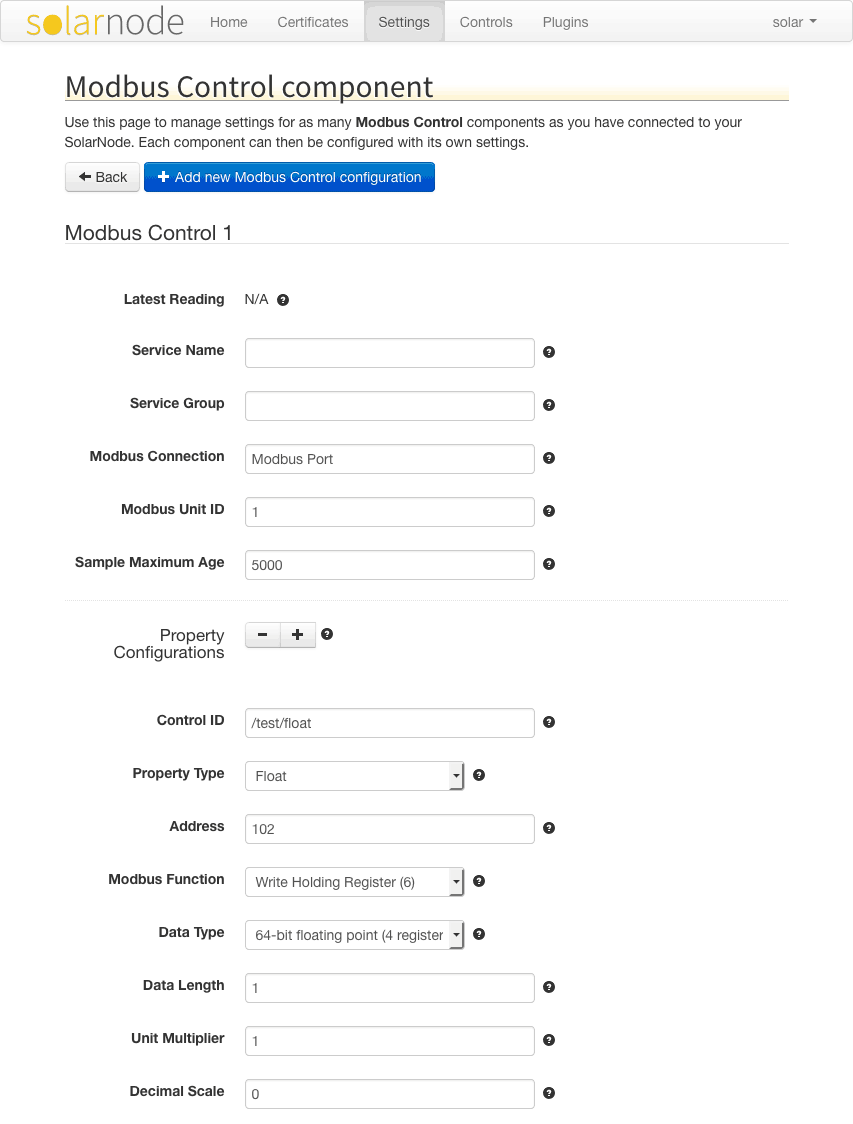
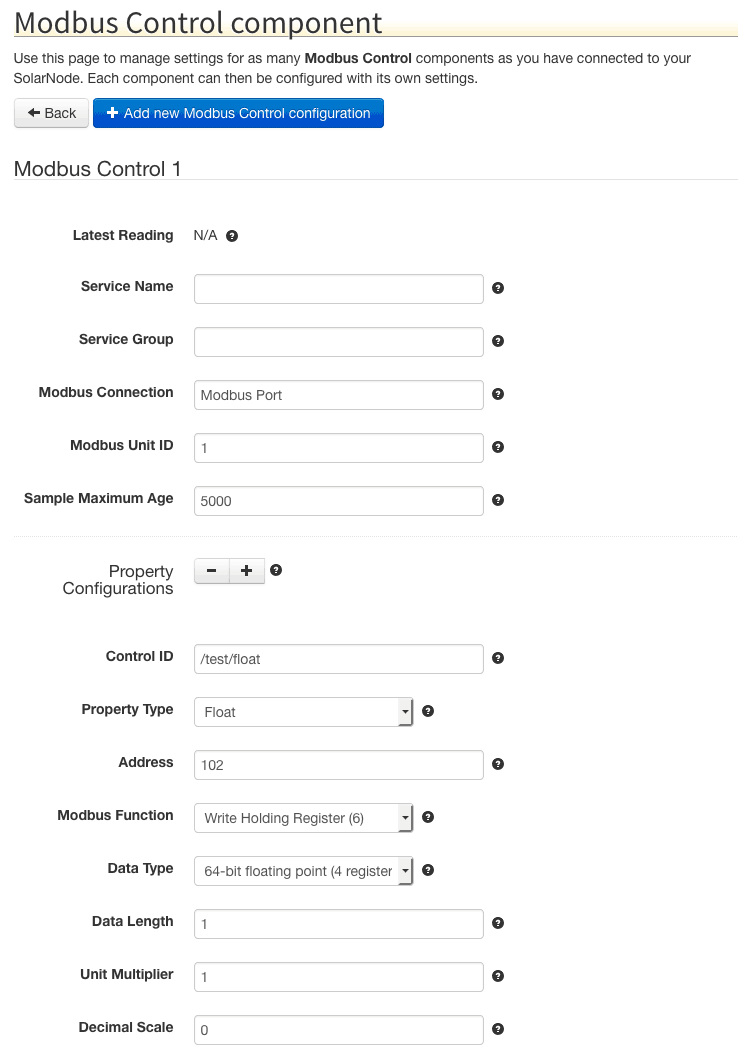
Fix image display resolution in README.

diff --git a/net.solarnetwork.node.datum.modbus/README.md b/net.solarnetwork.node.datum.modbus/README.md
@@ -4,7 +4,7 @@ This project provides SolarNode plugin that can collect arbitrary data from
 Modbus enabled devices. This is an advanced plugin that requires specific
 low-level knowledge of the device you want to collect data from.
 
-![settings](docs/solarnode-modbus-device-settings.png)
+<img title="Modbus Device Datum Source settings" src="docs/solarnode-modbus-device-settings.png" width="621">
 
 # Install
 
@@ -23,7 +23,7 @@ This plugin also provides a **Modbus Device CSV Configurer** component will appe
 settings page. This component lets you upload a Modbus CSV Configuration file to configure all
 Modbus Device components, without having to use the settings form.
 
-![CSV Configurer settings](docs/solarnode-modbus-device-csv-configurer.png)
+<img title="CSV Configurer settings" src="docs/solarnode-modbus-device-csv-configurer.png" width="762">
 
 ## Modbus CSV Configuration Format
 
@@ -40,7 +40,7 @@ Here's an example screen shot of a configuration in a spreadsheet application. I
 Spreadsheet applications generally allows you to export the sheet in the CSV format, which can
 then be loaded into SolarNode via the CSV Configurer.
 
-![CSV Configuration example](docs/solarnode-modbus-device-csv-configuration-example-sheet.png)
+<img title="CSV Configuration example" src="docs/solarnode-modbus-device-csv-configuration-example-sheet.png" width="1597">
 
 ### Instance identifiers
 
@@ -53,7 +53,7 @@ empty.
 Here's an example of how 3 custom instance IDs `Meter`, `Pyranometer`, and `Weather` appear in the
 SolarNode UI:
 
-![Modbus Device instance names](docs/solarnode-modbus-device-named-component-instances.png)
+<img title="Modbus Device instance names" src="docs/solarnode-modbus-device-named-component-instances.png" width="748">
 
 ### CSV column definition
 
@@ -152,7 +152,7 @@ Each device configuration contains the following overall settings:
 Since version **3.1**, metadata settings allow you to add datum source metadata to the configured
 datum stream.
 
-![Metadata settings](docs/solarnode-modbus-device-metadata-settings.png)
+<img title="Metadata settings" src="docs/solarnode-modbus-device-metadata-settings.png" width="537">
 
 Each metadata configuration contains the following settings:
 
@@ -168,7 +168,7 @@ You must configure settings for each datum property you want to collect from eac
 configure as many property settings as you like, using the <kbd>+</kbd> and <kbd>-</kbd> buttons to
 add/remove property configurations.
 
-![Property settings](docs/solarnode-modbus-device-property-settings.png)
+<img title="Property settings" src="docs/solarnode-modbus-device-property-settings.png" width="607">
 
 Each property configuration contains the following settings:
 
@@ -220,12 +220,12 @@ Since version **1.5** properties can be defined using [expressions][expr]. Expre
 configure datum properties that are dynamically calculated from other properties or raw Modbus
 register values.
 
-![expressions-config](docs/solarnode-modbus-device-expression-settings.png)
+<img title="Expressions configuration" src="docs/solarnode-modbus-device-expression-settings.png" width="735">
 
 ### Expression root object
 
 The root object is a `DatumExpressionRoot` that lets you treat all datum properties as expression
-variables directly. See the [SolarNode Expressions][sn-expressions] guide for more information. In 
+variables directly. See the [SolarNode Expressions][sn-expressions] guide for more information. In
 addition, the following properties are available:
 
 | Property | Type | Description |

diff --git a/net.solarnetwork.node.datum.bacnet/README.md b/net.solarnetwork.node.datum.bacnet/README.md
@@ -4,7 +4,7 @@ This project provides SolarNode plugin that can collect arbitrary data from BACn
 This is an advanced plugin that requires knowledge of BACnet and the BACnet configuration of the
 devices you want to collect data from.
 
-![settings](docs/solarnode-bacnet-device-settings.png)
+<img title="BACnet Device Datum Source settings" src="docs/solarnode-bacnet-device-settings.png" width="525">
 
 
 # SolarNodeOS port considerations
@@ -44,7 +44,7 @@ This plugin provides a **BACnet Device CSV Configurer** component will appear on
 page. This component lets you upload a BACnet CSV Configuration file to configure all BACnet Device
 components, without having to use the component settings form.
 
-![CSV Configurer settings](docs/solarnode-bacnet-device-csv-configurer.png)
+<img title="CSV Configurer" src="docs/solarnode-bacnet-device-csv-configurer.png" width="680">
 
 ## BACnet CSV Configuration Format
 
@@ -61,7 +61,9 @@ Here's an example screen shot of a configuration in a spreadsheet application. I
 Spreadsheet applications generally allows you to export the sheet in the CSV format, which can
 then be loaded into SolarNode via the CSV Configurer.
 
-![CSV Configuration example](docs/solarnode-bacnet-device-csv-configuration-example-sheet.png)
+<img title="CSV Configuration example" src="docs/solarnode-bacnet-device-csv-configuration-example-sheet.png" width="1704">
+
+![]()
 
 ### Instance identifiers
 
@@ -73,11 +75,11 @@ empty.
 
 Here's an example of how 2 custom instance IDs `Meter` and `Therm` appear in the SolarNode UI:
 
-![BACnet Device instance names](docs/solarnode-bacnet-device-named-component-instances.png)
+<img title="BACnet Device instance names" src="docs/solarnode-bacnet-device-named-component-instances.png" width="742">
 
 ### CSV column definition
 
-The following table defines all the CSV columns used by BACnet Device CSV Configuration. Columns 
+The following table defines all the CSV columns used by BACnet Device CSV Configuration. Columns
 **A - H** apply to the **entire BACnet Device configuration**, and only the values from the row that
 defines a new Instance ID will be used to configure the device. Thus you can omit the values from
 these columns when defining more than one property for a given instance.
@@ -162,7 +164,7 @@ You must configure settings for each BACnet device you want to collect data from
 configure as many device settings as you like, using the <kbd>+</kbd> and <kbd>-</kbd> buttons to
 add/remove configurations.
 
-![Device settings](docs/solarnode-bacnet-device-device-settings.png)
+<img title="Device settings" src="docs/solarnode-bacnet-device-device-settings.png" width="499">
 
 Each device configuration contains the following settings:
 
@@ -177,7 +179,7 @@ You must configure settings for each datum property you want to collect from a g
 configure as many property settings as you like, using the <kbd>+</kbd> and <kbd>-</kbd> buttons to
 add/remove configurations.
 
-![Property settings](docs/solarnode-bacnet-device-property-settings.png)
+<img title="Property settings" src="docs/solarnode-bacnet-device-property-settings.png" width="501">
 
 Each property configuration contains the following settings:
 

diff --git a/net.solarnetwork.node.control.bacnet/README.md b/net.solarnetwork.node.control.bacnet/README.md
@@ -4,7 +4,7 @@ This project provides SolarNode plugin that can be used to set BACnet object pro
 as numbers or strings, via the SolarNode Control API. This is an advanced plugin that requires
 knowledge of BACnet and the BACnet configuration of the components you want to control.
 
-![settings](docs/solarnode-bacnet-control-settings.png)
+<img title="BACnet Control settings" src="docs/solarnode-bacnet-control-settings.png" width="518">
 
 
 # SolarNodeOS port considerations
@@ -40,7 +40,7 @@ This plugin provides a **BACnet Control CSV Configurer** component will appear o
 page. This component lets you upload a BACnet Control CSV Configuration file to configure all BACnet
 Control components, without having to use the component settings form.
 
-![CSV Configurer settings](docs/solarnode-bacnet-control-csv-configurer-settings.png)
+<img title="CSV Configurer settings" src="docs/solarnode-bacnet-control-csv-configurer-settings.png" width="582">
 
 ## BACnet Control CSV Configuration Format
 
@@ -57,7 +57,7 @@ Here's an example screen shot of a configuration in a spreadsheet application. I
 Spreadsheet applications generally allows you to export the sheet in the CSV format, which can
 then be loaded into SolarNode via the CSV Configurer.
 
-![CSV Configuration example](docs/solarnode-bacnet-control-csv-configurer-example.png)
+<img title="CSV Configuration example" src="docs/solarnode-bacnet-control-csv-configurer-example.png" width="1305">
 
 ### Instance identifiers
 
@@ -69,7 +69,7 @@ empty.
 
 Here is an example of how 2 custom instance IDs `Relay` and `Term` appear in the SolarNode UI:
 
-![BACnet Control instance names](docs/solarnode-bacnet-control-instance-keys.png)
+<img title="BACnet Control instance names" src="docs/solarnode-bacnet-control-instance-keys.png" width="735">
 
 ### CSV column definition
 
@@ -147,7 +147,7 @@ You must configure settings for each BACnet object property you want to expose a
 control. You can configure as many property settings as you like, using the <kbd>+</kbd> and
 <kbd>-</kbd> buttons to add/remove configurations.
 
-![Property settings](docs/solarnode-bacnet-control-property-settings.png)
+<img title="Property settings" src="docs/solarnode-bacnet-control-property-settings.png" width="505">
 
 Each property configuration contains the following settings:
 
@@ -195,7 +195,7 @@ You can set a control value using the SolarNode GUI once the device is configure
 **Controls** page, then tap the **Manage** button for the control ID of the switch you want to
 toggle. You'll see a form where you can enter the desired value, like this:
 
-![SolarNode Controls UI](docs/solarnode-bacnet-control-ui.png)
+<img title="SolarNode Controls UI" src="docs/solarnode-bacnet-control-ui.png" width="739">
 
 ## SolarNetwork control
 

diff --git a/net.solarnetwork.node.control.modbus/README.md b/net.solarnetwork.node.control.modbus/README.md
@@ -3,7 +3,7 @@
 This project provides SolarNode plugin that can be used to set arbitrary
 Modbus register values, such as numbers or strings.
 
-![settings](docs/solarnode-modbus-control-settings.png)
+<img title="Modbus Control settings" src="docs/solarnode-modbus-control-settings.png" width="754">
 
 # Install
 
@@ -35,7 +35,7 @@ This plugin also provides a **Modbus Control CSV Configurer** component will app
 settings page. This component lets you upload a Modbus Control CSV Configuration file to configure
 all Modbus Control components, without having to use the settings form.
 
-![CSV Configurer settings](docs/solarnode-modbus-control-csv-configurer-settings.png)
+<img title="CSV Configurer settings" src="docs/solarnode-modbus-control-csv-configurer-settings.png" width="686">
 
 ## Modbus Control CSV Configuration Format
 
@@ -52,7 +52,7 @@ Here's an example screen shot of a configuration in a spreadsheet application. I
 Spreadsheet applications generally allows you to export the sheet in the CSV format, which can
 then be loaded into SolarNode via the CSV Configurer.
 
-![CSV Configuration example](docs/solarnode-modbus-control-csv-configurer-example.png)
+<img title="CSV Configuration example" src="docs/solarnode-modbus-control-csv-configurer-example.png" width="1295">
 
 ### Instance identifiers
 
@@ -65,7 +65,7 @@ empty.
 Here's an example of how 3 custom instance IDs `Relay`, `PLC`, and `Inverter` appear in the
 SolarNode UI:
 
-![Modbus Control instance names](docs/solarnode-modbus-control-instance-keys.png)
+<img title="Modbus Control instance names" src="docs/solarnode-modbus-control-instance-keys.png" width="744">
 
 ### CSV column definition
 
@@ -205,7 +205,7 @@ Visit the **Controls** page, then tap the **Manage** button for the control ID
 of the switch you want to toggle. You'll see a form where you can enter the
 desired value, like this:
 
-![settings](docs/solarnode-modbus-control.png)
+<img title="SolarNode Control UI" src="docs/solarnode-modbus-control.png" width="742">
 
 ## SolarNetwork control
 
